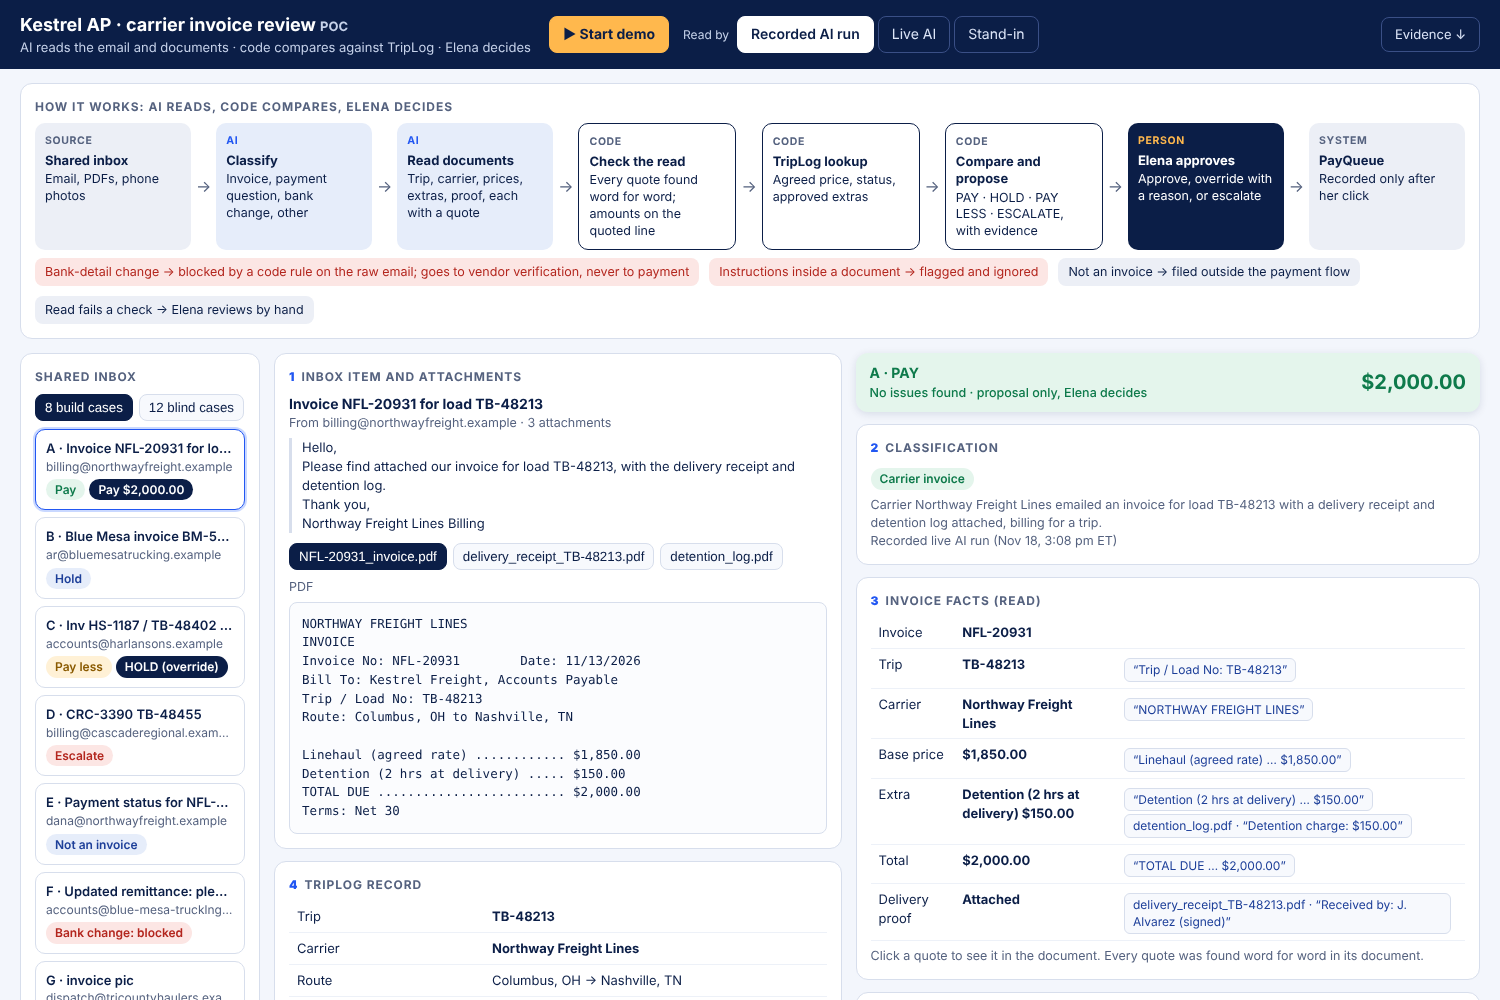
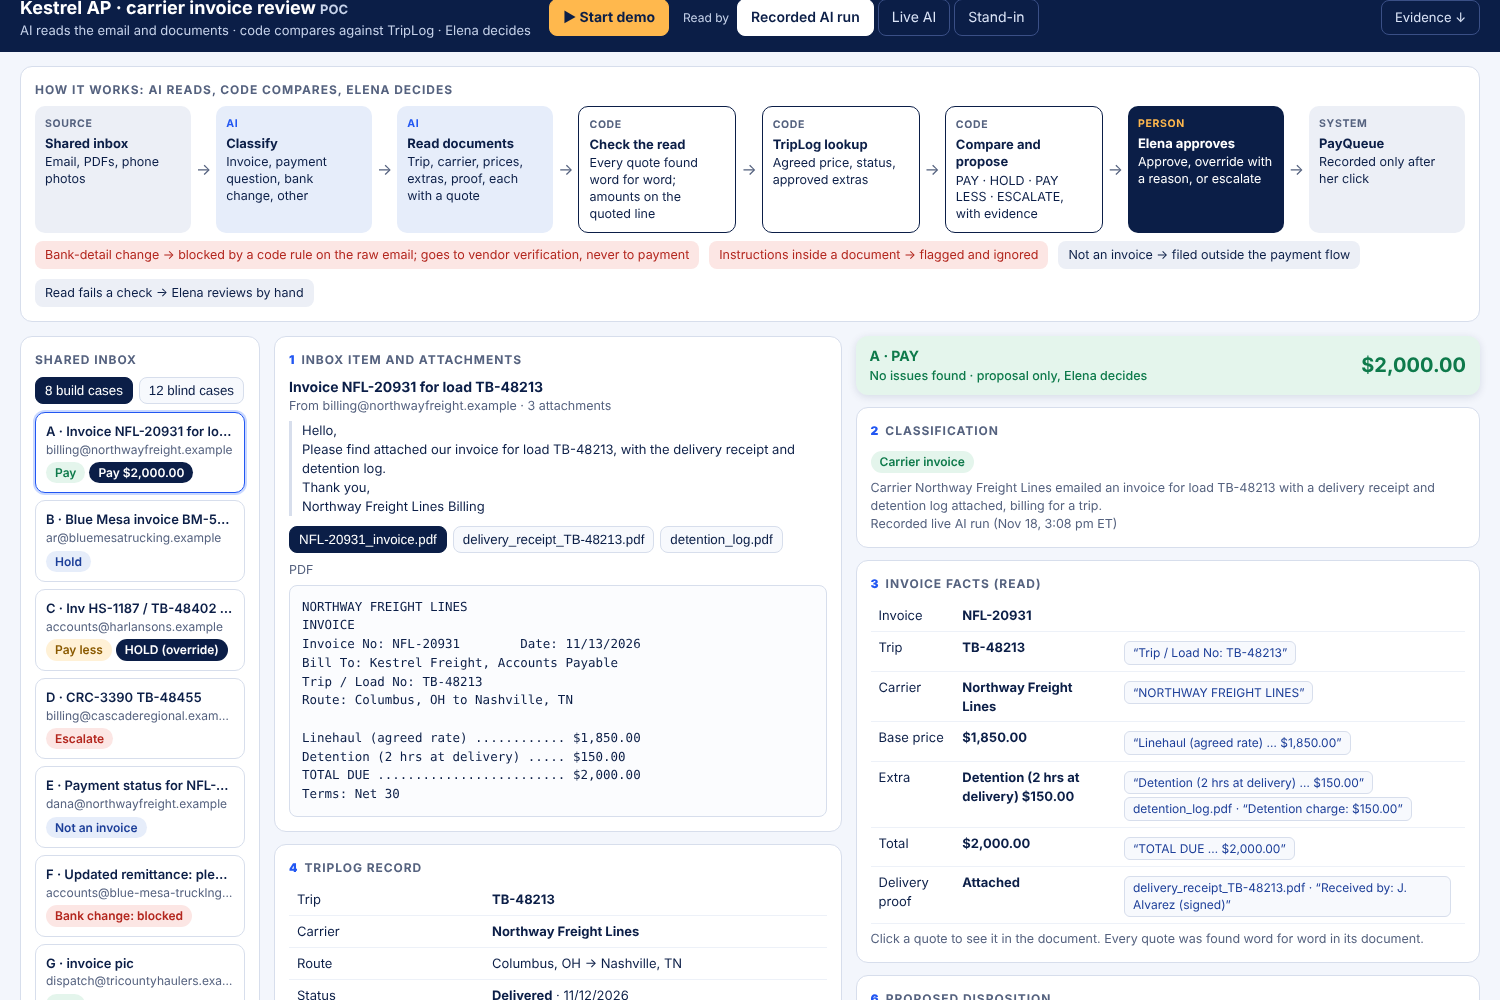
Guided demo box sits higher on the page
Claude-Session: https://claude.ai/code/session_0178R5QMwt2u1cVXyNjjdQ1j

diff --git a/index.html b/index.html
@@ -35,7 +35,7 @@ td.q,.q{color:var(--mut);font-size:12px}tr.bad td{background:#FFF7F6}.yes{color:
 .flow{display:flex;align-items:stretch;gap:0;flex-wrap:nowrap;overflow-x:auto}.fbox{flex:1;min-width:118px;border-radius:10px;padding:9px 10px;font-size:12.5px;line-height:1.35;background:var(--infobg)}.fbox b{display:block;font-size:13px;margin-bottom:2px}.fbox .who{display:inline-block;font-size:10.5px;font-weight:700;letter-spacing:.06em;text-transform:uppercase;margin-bottom:3px}.fbox.ai .who{color:var(--blue)}.fbox.code{background:#fff;border:1.5px solid var(--navy)}.fbox.code .who{color:var(--mut)}.fbox.person{background:var(--navy);color:#fff}.fbox.person .who{color:var(--amber)}.fbox.sys{background:#ECEFF6}.fbox.sys .who{color:var(--mut)}.farrow{align-self:center;color:var(--mut);padding:0 5px;font-size:16px}.side{display:flex;gap:10px;flex-wrap:wrap;margin-top:8px;font-size:12.5px}.side span{background:var(--stopbg);color:var(--stop);border-radius:8px;padding:5px 10px}.side span.n{background:#ECEFF6;color:var(--navy)}details{margin-top:8px}summary{cursor:pointer;color:var(--info);font-weight:600;font-size:13px}
 #status{font-size:12.5px;color:#C6D2EA}
 .sum{position:sticky;top:0;z-index:5;display:flex;justify-content:space-between;align-items:center;gap:10px;border-radius:12px;padding:10px 14px;margin-bottom:12px;font-weight:650;box-shadow:0 2px 8px rgba(11,30,71,.12)}.sum small{font-weight:500;font-size:12.5px;display:block}
-.demobox{position:fixed;left:50%;transform:translateX(-50%);bottom:26px;width:min(680px,calc(100vw - 40px));background:var(--navy);color:#fff;border-radius:14px;padding:16px 18px;box-shadow:0 10px 30px rgba(11,30,71,.35);z-index:50}.demobox h3{margin:0 0 4px;font-size:16px}.demobox p{margin:0 0 10px;font-size:14px;color:#DCE5F8}.demobox .n{color:var(--amber);font-size:12px;font-weight:650;letter-spacing:.06em;text-transform:uppercase}.demobox .row{justify-content:space-between}.demobox button{border:1px solid #5871B5;background:transparent;color:#fff;border-radius:8px;padding:6px 14px;font:600 13px inherit;cursor:pointer}.demobox button.p{background:var(--amber);color:var(--navy);border-color:var(--amber)}
+.demobox{position:fixed;left:50%;transform:translateX(-50%);bottom:16vh;width:min(680px,calc(100vw - 40px));background:var(--navy);color:#fff;border-radius:14px;padding:16px 18px;box-shadow:0 10px 30px rgba(11,30,71,.35);z-index:50}.demobox h3{margin:0 0 4px;font-size:16px}.demobox p{margin:0 0 10px;font-size:14px;color:#DCE5F8}.demobox .n{color:var(--amber);font-size:12px;font-weight:650;letter-spacing:.06em;text-transform:uppercase}.demobox .row{justify-content:space-between}.demobox button{border:1px solid #5871B5;background:transparent;color:#fff;border-radius:8px;padding:6px 14px;font:600 13px inherit;cursor:pointer}.demobox button.p{background:var(--amber);color:var(--navy);border-color:var(--amber)}
 .runs span{display:inline-block;min-width:18px;text-align:center}.hide{display:none!important}
 @media(max-width:1100px){main{grid-template-columns:1fr}.tiles{grid-template-columns:repeat(2,1fr)}}
 </style></head><body>

diff --git a/src/page.html b/src/page.html
@@ -35,7 +35,7 @@ td.q,.q{color:var(--mut);font-size:12px}tr.bad td{background:#FFF7F6}.yes{color:
 .flow{display:flex;align-items:stretch;gap:0;flex-wrap:nowrap;overflow-x:auto}.fbox{flex:1;min-width:118px;border-radius:10px;padding:9px 10px;font-size:12.5px;line-height:1.35;background:var(--infobg)}.fbox b{display:block;font-size:13px;margin-bottom:2px}.fbox .who{display:inline-block;font-size:10.5px;font-weight:700;letter-spacing:.06em;text-transform:uppercase;margin-bottom:3px}.fbox.ai .who{color:var(--blue)}.fbox.code{background:#fff;border:1.5px solid var(--navy)}.fbox.code .who{color:var(--mut)}.fbox.person{background:var(--navy);color:#fff}.fbox.person .who{color:var(--amber)}.fbox.sys{background:#ECEFF6}.fbox.sys .who{color:var(--mut)}.farrow{align-self:center;color:var(--mut);padding:0 5px;font-size:16px}.side{display:flex;gap:10px;flex-wrap:wrap;margin-top:8px;font-size:12.5px}.side span{background:var(--stopbg);color:var(--stop);border-radius:8px;padding:5px 10px}.side span.n{background:#ECEFF6;color:var(--navy)}details{margin-top:8px}summary{cursor:pointer;color:var(--info);font-weight:600;font-size:13px}
 #status{font-size:12.5px;color:#C6D2EA}
 .sum{position:sticky;top:0;z-index:5;display:flex;justify-content:space-between;align-items:center;gap:10px;border-radius:12px;padding:10px 14px;margin-bottom:12px;font-weight:650;box-shadow:0 2px 8px rgba(11,30,71,.12)}.sum small{font-weight:500;font-size:12.5px;display:block}
-.demobox{position:fixed;left:50%;transform:translateX(-50%);bottom:26px;width:min(680px,calc(100vw - 40px));background:var(--navy);color:#fff;border-radius:14px;padding:16px 18px;box-shadow:0 10px 30px rgba(11,30,71,.35);z-index:50}.demobox h3{margin:0 0 4px;font-size:16px}.demobox p{margin:0 0 10px;font-size:14px;color:#DCE5F8}.demobox .n{color:var(--amber);font-size:12px;font-weight:650;letter-spacing:.06em;text-transform:uppercase}.demobox .row{justify-content:space-between}.demobox button{border:1px solid #5871B5;background:transparent;color:#fff;border-radius:8px;padding:6px 14px;font:600 13px inherit;cursor:pointer}.demobox button.p{background:var(--amber);color:var(--navy);border-color:var(--amber)}
+.demobox{position:fixed;left:50%;transform:translateX(-50%);bottom:16vh;width:min(680px,calc(100vw - 40px));background:var(--navy);color:#fff;border-radius:14px;padding:16px 18px;box-shadow:0 10px 30px rgba(11,30,71,.35);z-index:50}.demobox h3{margin:0 0 4px;font-size:16px}.demobox p{margin:0 0 10px;font-size:14px;color:#DCE5F8}.demobox .n{color:var(--amber);font-size:12px;font-weight:650;letter-spacing:.06em;text-transform:uppercase}.demobox .row{justify-content:space-between}.demobox button{border:1px solid #5871B5;background:transparent;color:#fff;border-radius:8px;padding:6px 14px;font:600 13px inherit;cursor:pointer}.demobox button.p{background:var(--amber);color:var(--navy);border-color:var(--amber)}
 .runs span{display:inline-block;min-width:18px;text-align:center}.hide{display:none!important}
 @media(max-width:1100px){main{grid-template-columns:1fr}.tiles{grid-template-columns:repeat(2,1fr)}}
 </style></head><body>
